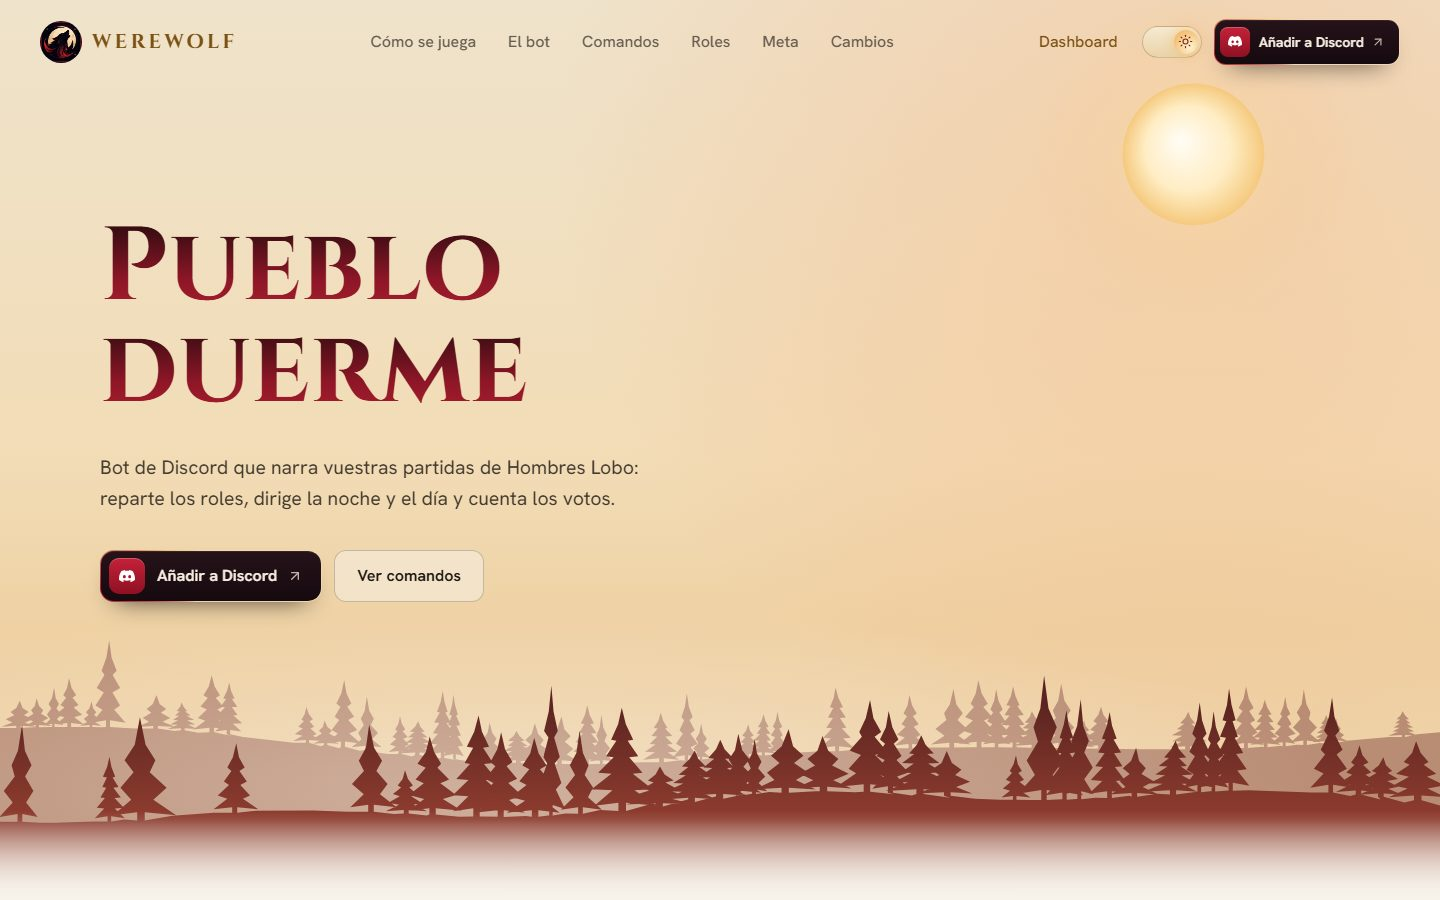
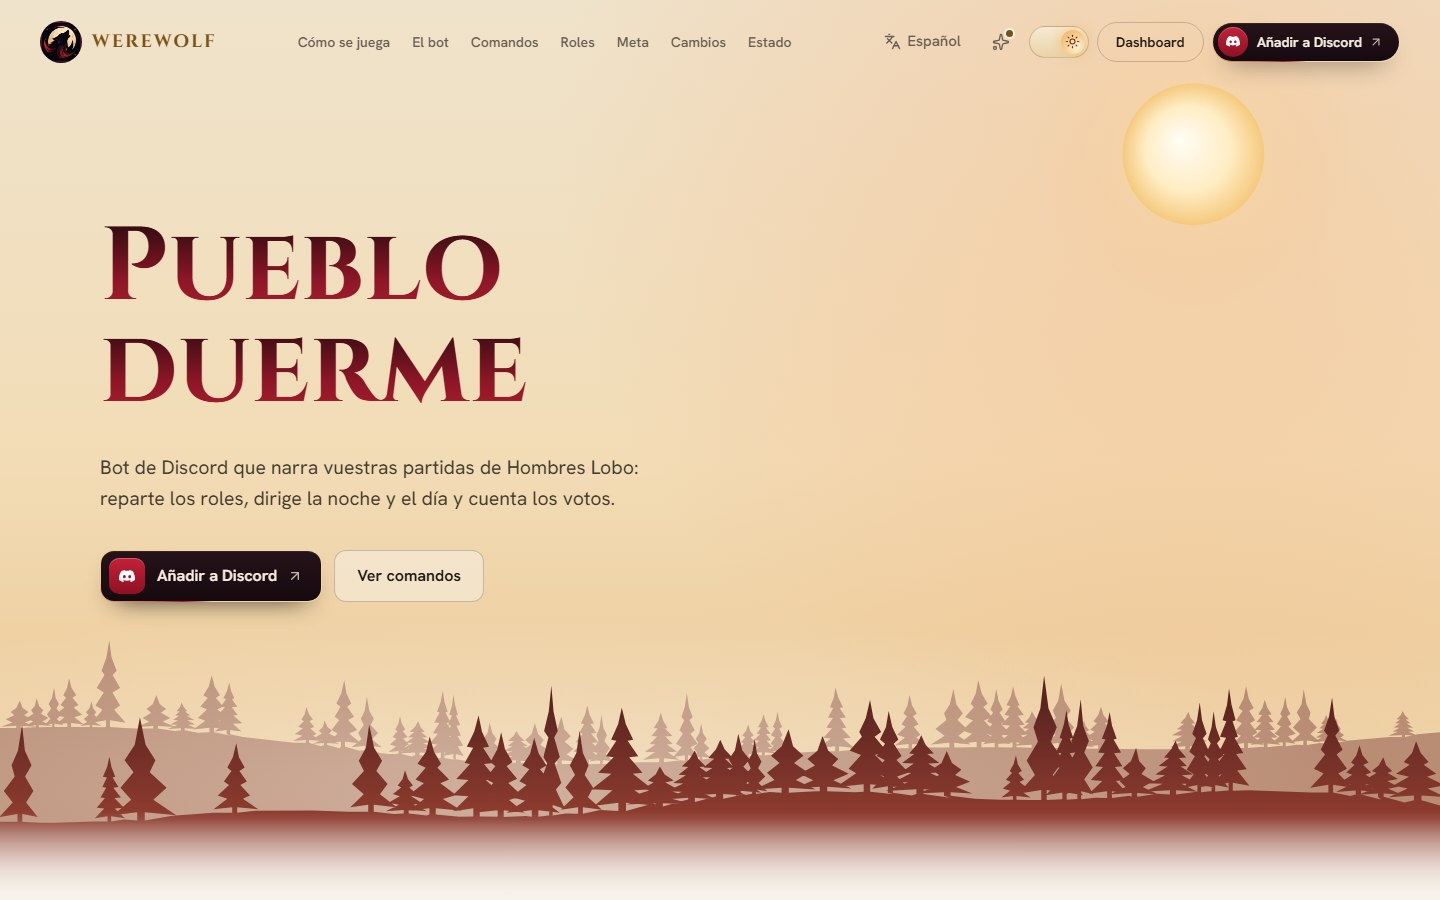
Capturas de la portada actuales, con versión inglesa para el README en inglés

Changed region(s): [[0.6875, 0.0, 0.9688, 0.0933], [0.2188, 0.0311, 0.6562, 0.0622], [0.0625, 0.0311, 0.1562, 0.0622]]

diff --git a/README.en.md b/README.en.md
@@ -39,8 +39,8 @@ This repository is the project's showcase. The source code is private.
 
 <p align="center">
   <a href="https://werewolfdashboard.vercel.app/en"><picture>
-    <source media="(prefers-color-scheme: light)" srcset="assets/web/landing-dia.jpg">
-    <img src="assets/web/landing-noche.jpg" alt="Werewolf website home page: Pueblo duerme over a forest, with the moon at night and the sun by day" width="100%">
+    <source media="(prefers-color-scheme: light)" srcset="assets/web/landing-dia-en.jpg">
+    <img src="assets/web/landing-noche-en.jpg" alt="Werewolf website home page: “Night falls” over a forest, with the moon at night and the sun by day" width="100%">
   </picture></a>
 </p>
 
